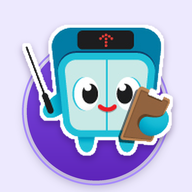
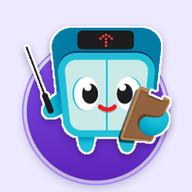
아이콘 흰 테두리 얇게
Claude-Session: https://claude.ai/code/session_01WnRVds5Vd9abyHj35Nw81E

diff --git a/sw.js b/sw.js
@@ -1,5 +1,5 @@
 /* 오프라인·빠른 실행용 캐시. 앱 파일과 연혁집 데이터는 캐시, 서버(Firebase)·날씨는 항상 네트워크. */
-const VER='hub-v3';
+const VER='hub-v4';
 const SHELL=['./','./index.html','./config.js','./tailwind.css','./vendor/firebase-app-compat.js','./vendor/firebase-auth-compat.js','./vendor/firebase-firestore-compat.js','./manifest.webmanifest','./icon-192.png','./icon-512.png','./apple-touch-icon.png'];
 self.addEventListener('install',e=>{e.waitUntil(caches.open(VER).then(c=>c.addAll(SHELL)).then(()=>self.skipWaiting()))});
 self.addEventListener('activate',e=>{e.waitUntil(caches.keys().then(ks=>Promise.all(ks.filter(k=>k!==VER).map(k=>caches.delete(k)))).then(()=>self.clients.claim()))});

diff --git a/index.html b/index.html
@@ -11,8 +11,8 @@
 <meta name="apple-mobile-web-app-capable" content="yes">
 <meta name="apple-mobile-web-app-status-bar-style" content="black-translucent">
 <meta name="apple-mobile-web-app-title" content="안전 허브">
-<link rel="apple-touch-icon" href="apple-touch-icon.png?v=2">
-<link rel="icon" href="icon-192.png?v=2">
+<link rel="apple-touch-icon" href="apple-touch-icon.png?v=3">
+<link rel="icon" href="icon-192.png?v=3">
 <script src="vendor/firebase-app-compat.js"></script>
 <script src="vendor/firebase-auth-compat.js"></script>
 <script src="vendor/firebase-firestore-compat.js"></script>
